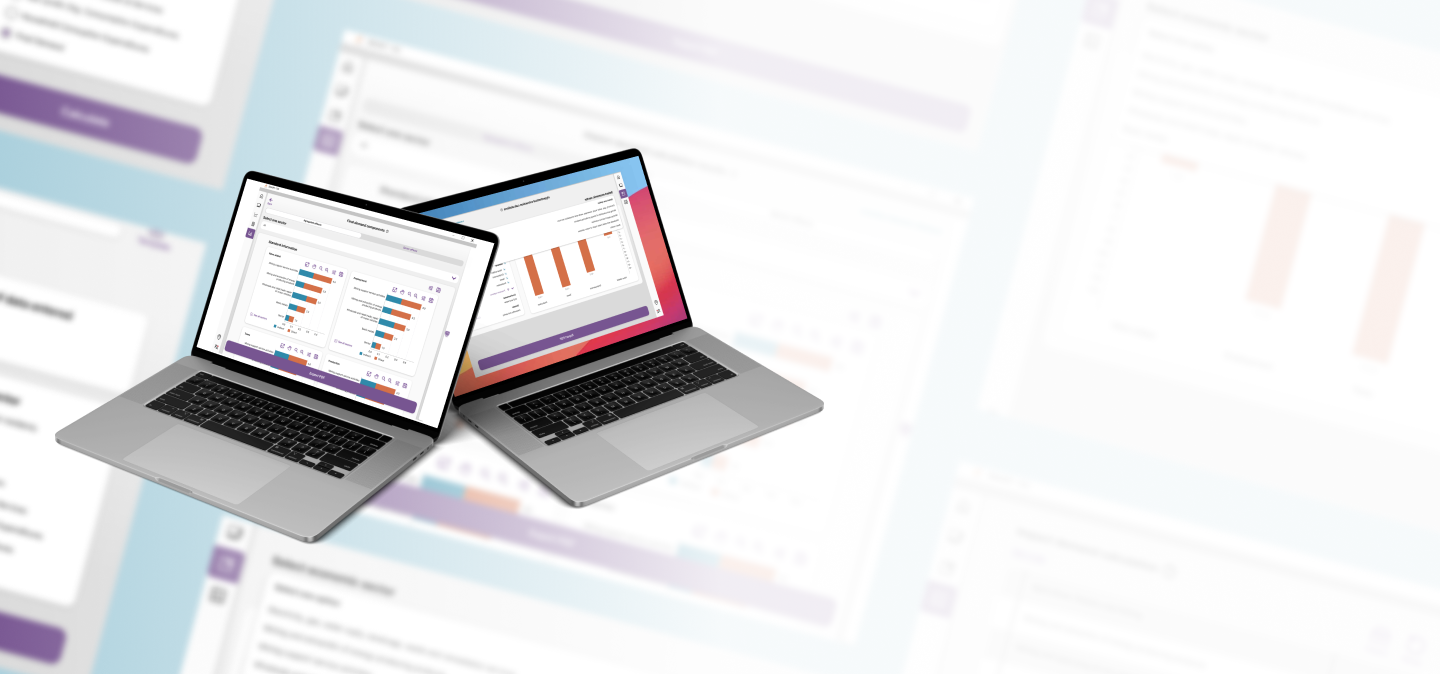
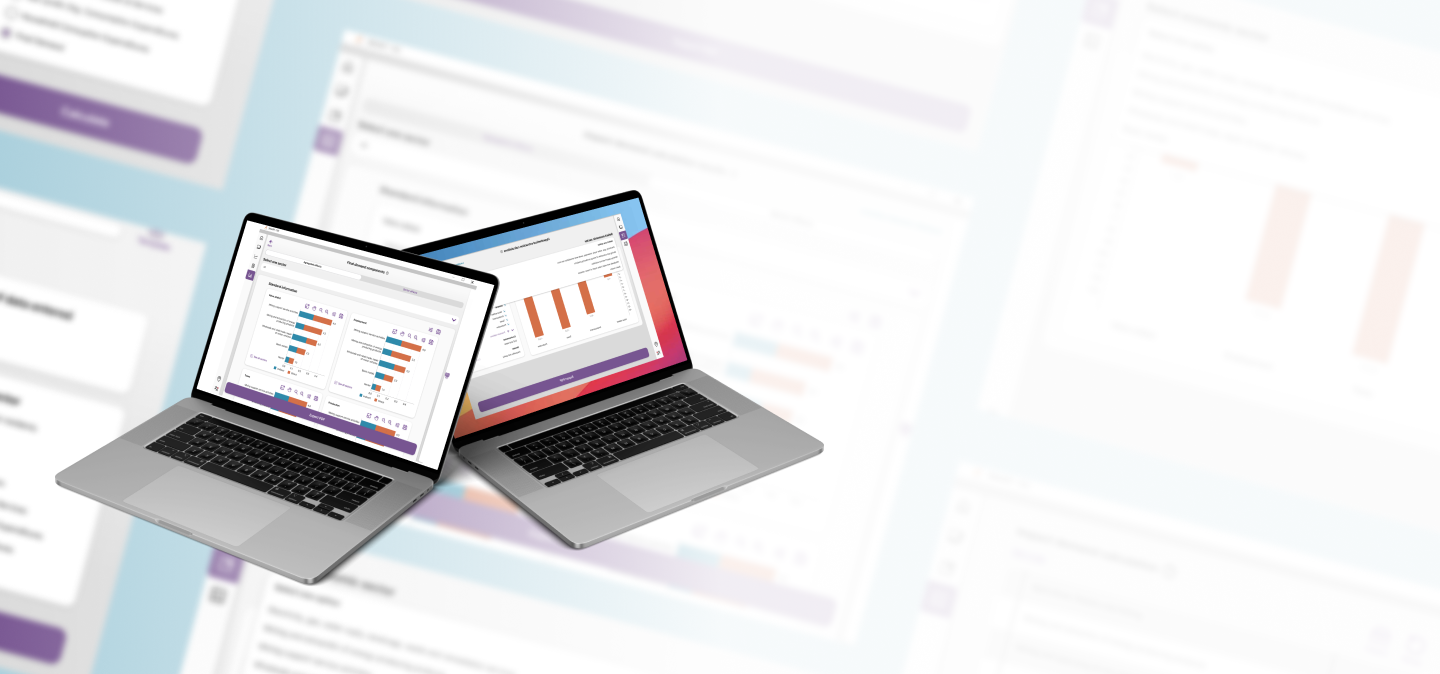
cambios header

Changed region(s): [[0.0312, 0.2181, 0.5938, 0.8724]]

diff --git a/style/style.css b/style/style.css
@@ -9,6 +9,10 @@
     src: url("../Font/SF-Pro-Italic.ttf");
     font-family: "SF-Pro-Italic";
   }
+  @font-face {
+    src: url("../Font/Antraste.ttf");
+    font-family: "Antraste";
+  }
 
   body {
       font-family: "SF-Pro";
@@ -993,7 +997,7 @@ iframe{
 }
 .centradoheader{
   position: absolute;
-  top: 30%;
+  top: 35%;
   left: 65%;
   transform: translate(-10%, -10%);
   text-align: center;
@@ -1007,6 +1011,10 @@ iframe{
 }
 .centradotextheader{
   color:#684B7D;
+  font-family: 'Antraste';
+  font-weight: 860;
+font-size: 64px;
+line-height: 115px;
 }
 .centradotextsubheader{
   color:#197C9B;
